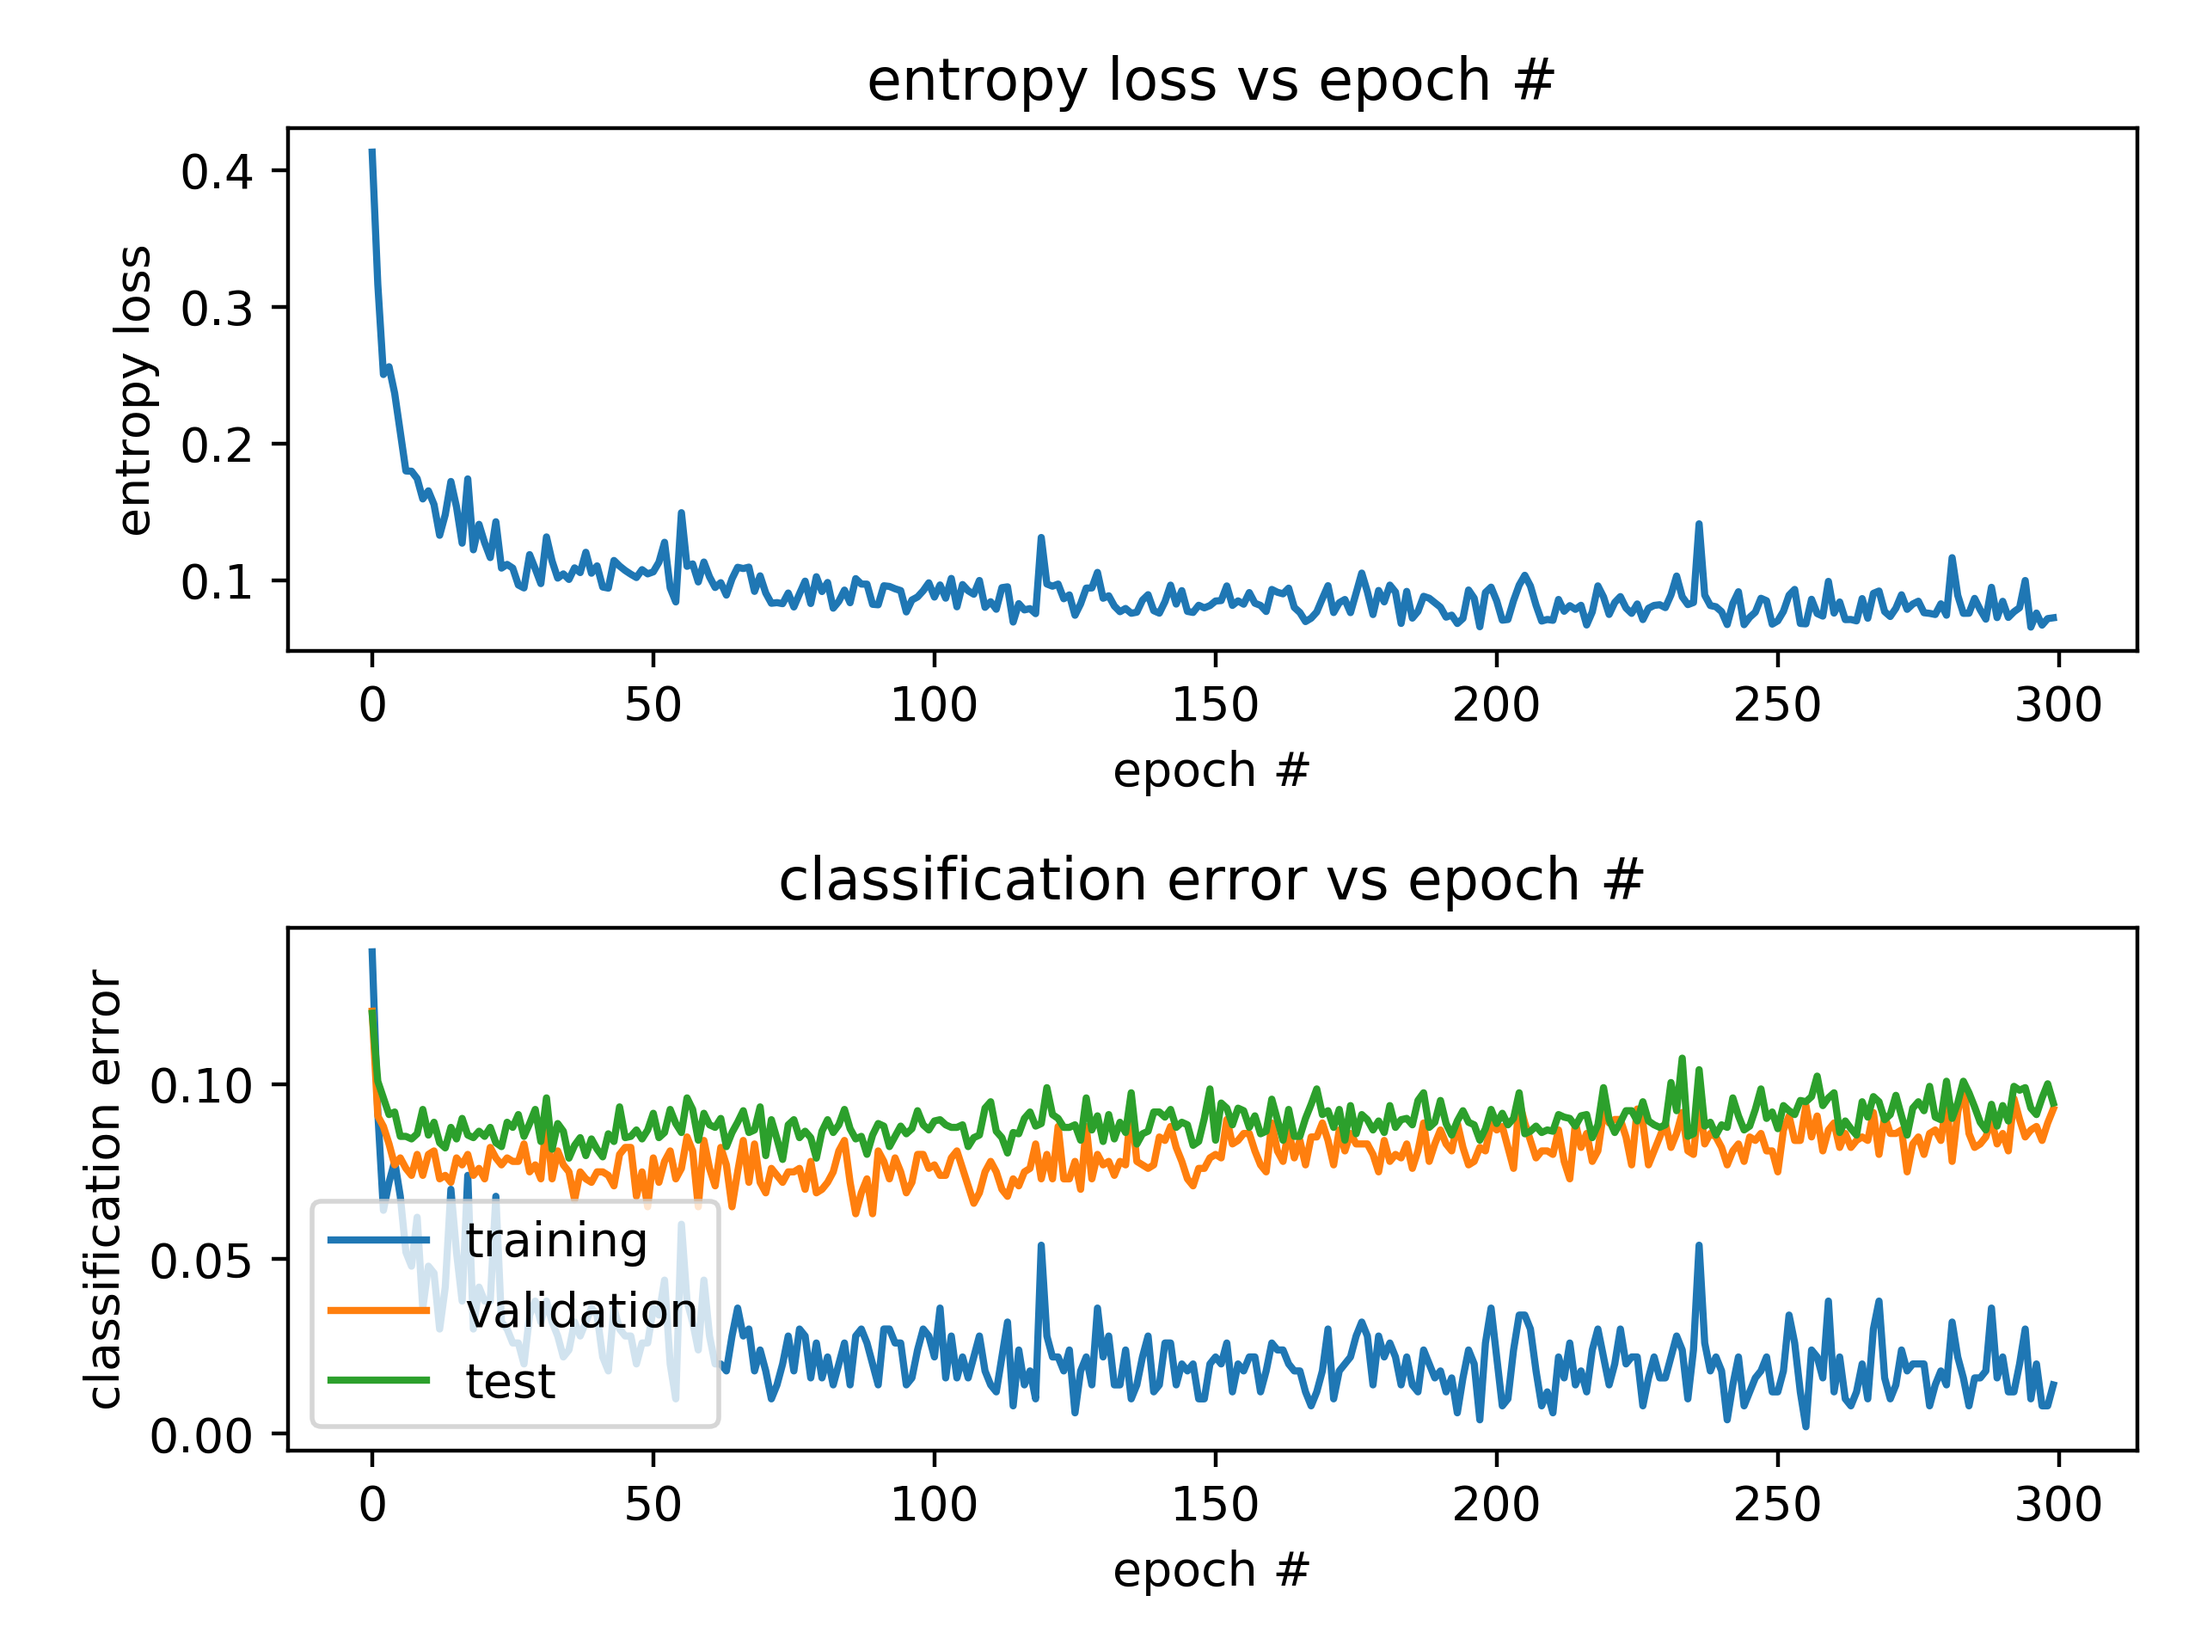
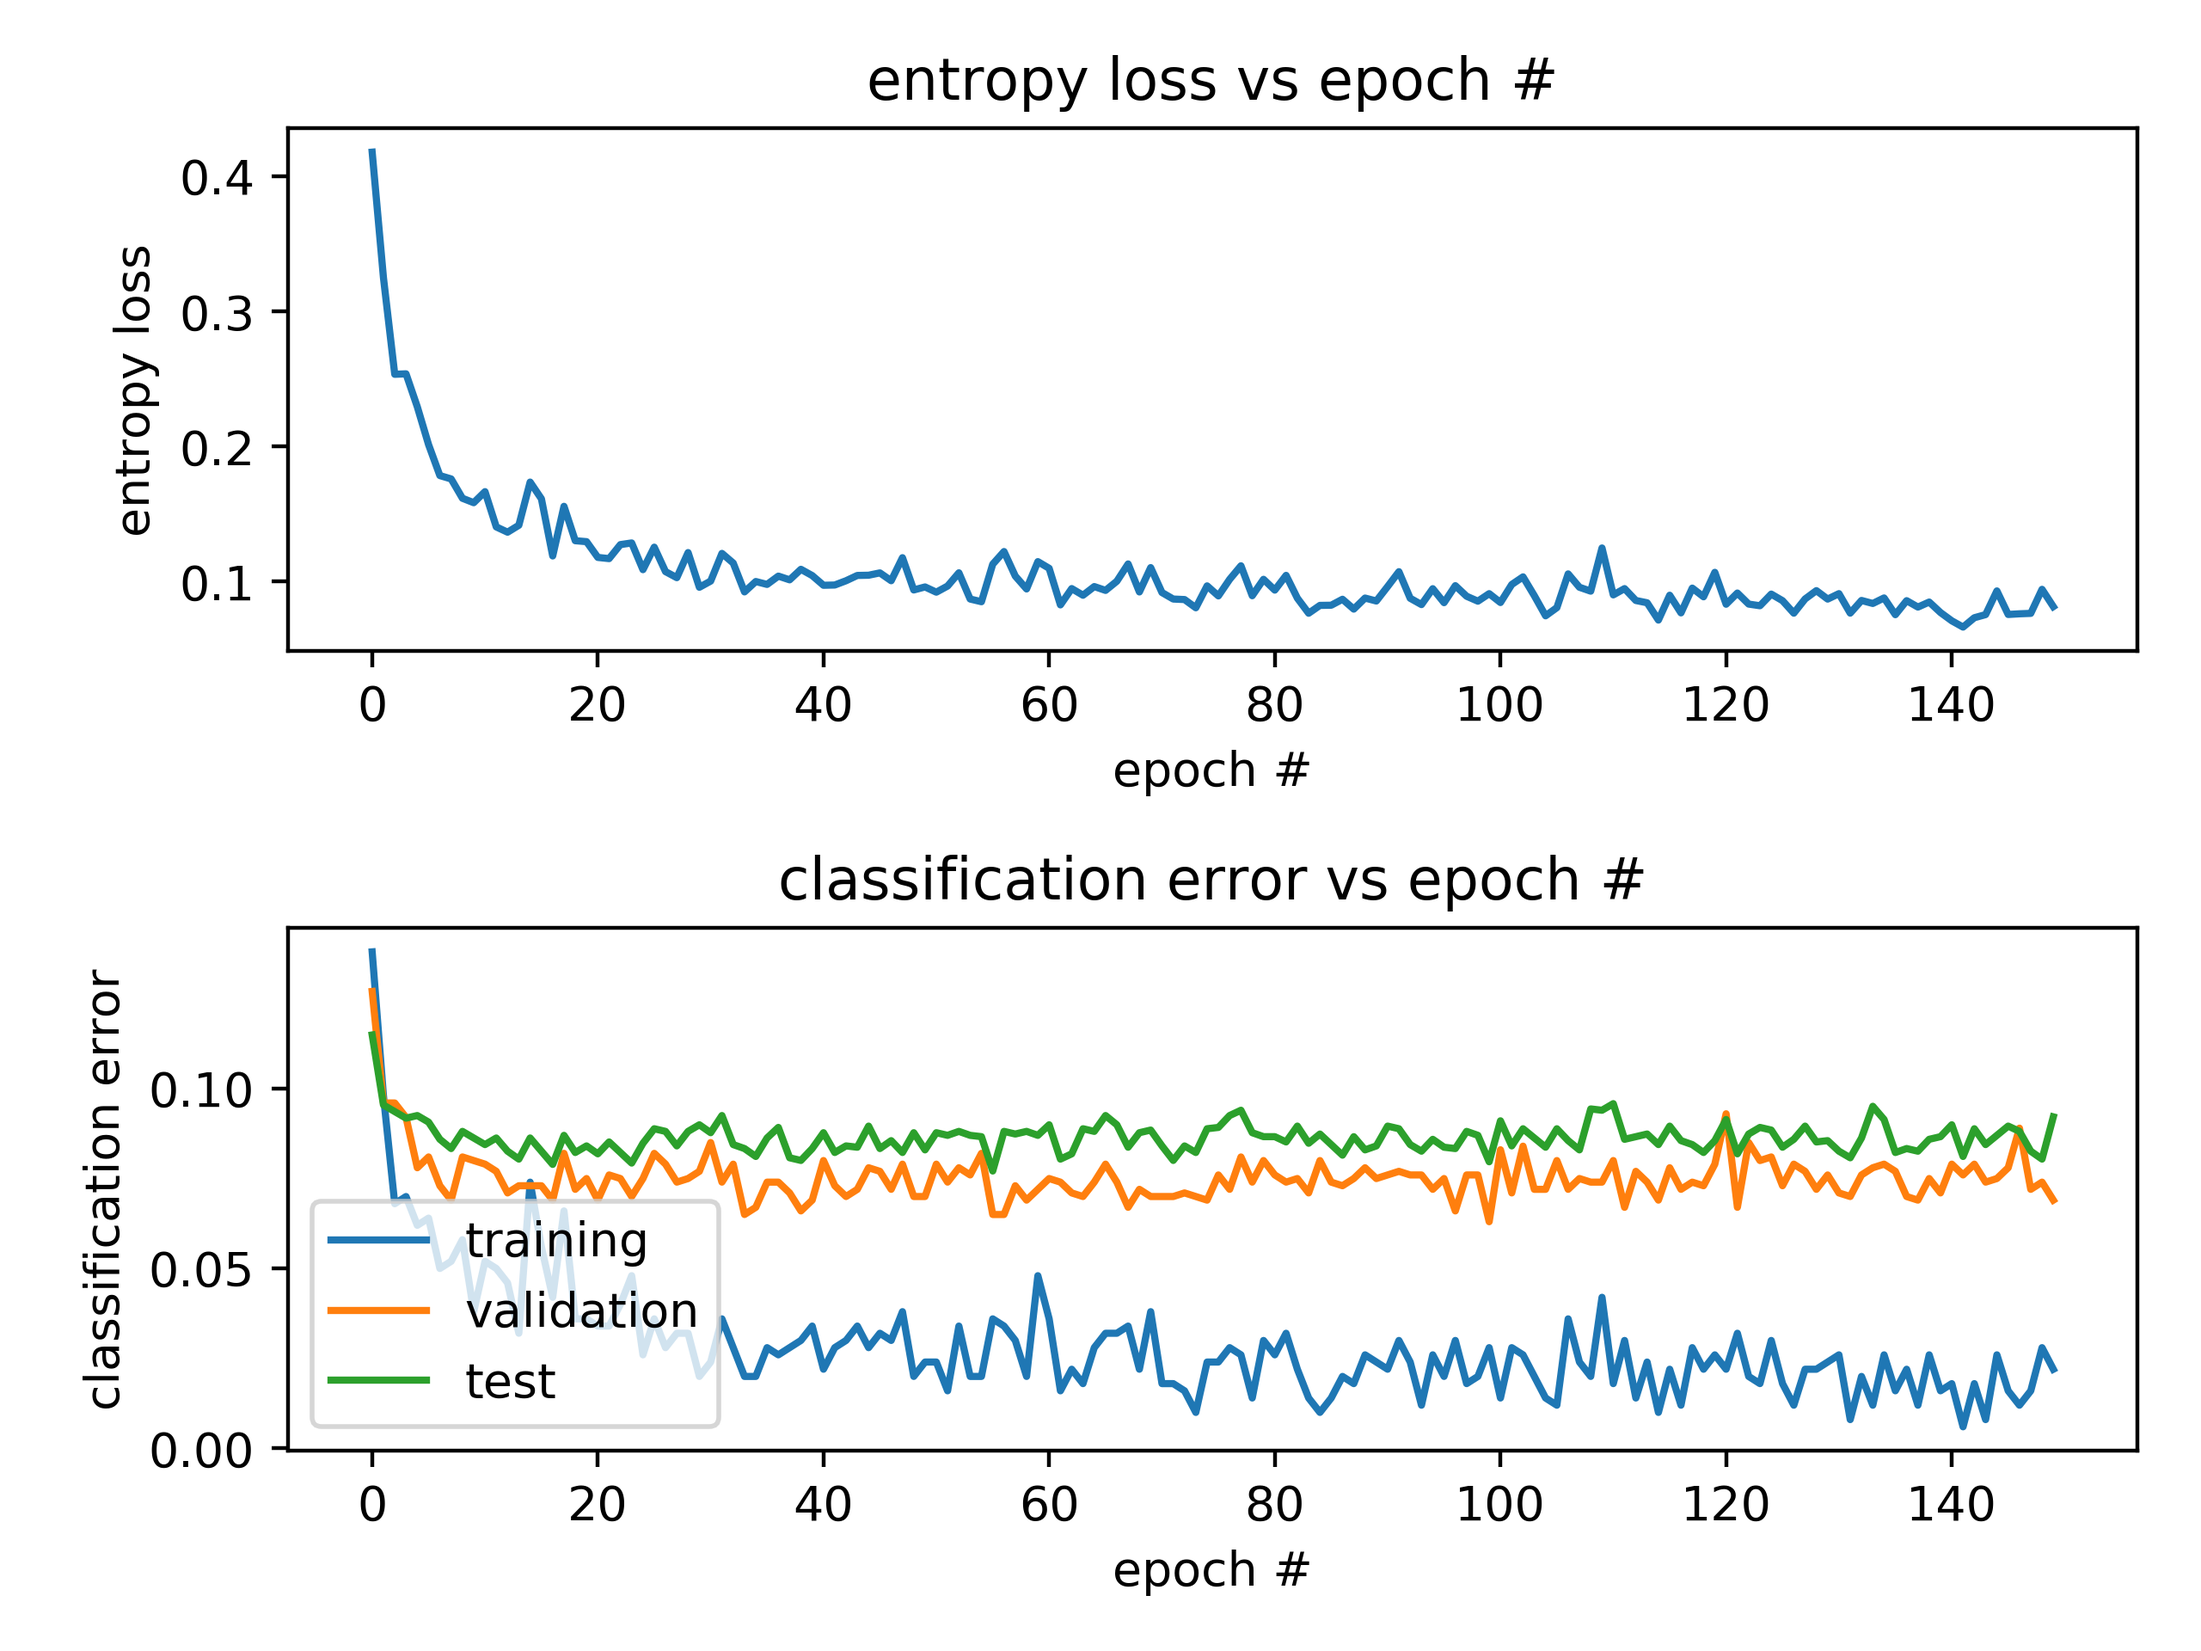
added some part 1.2.1

diff --git a/part_1_2.py b/part_1_2.py
@@ -1,0 +1,83 @@
+import tensorflow as tf
+import numpy as np
+import matplotlib.pyplot as plt
+import part_1_1 as p11
+
+
+def tune_num_of_hidden_units():
+    train_data, train_target, valid_data, valid_target, test_data, test_target = p11.load_data()
+    valid_data = tf.cast(valid_data, tf.float32)
+    valid_target_onehot = tf.one_hot(valid_target, 10)
+
+    batch_size = 500
+    num_iterations = 9000
+    num_train = train_data.shape[0]
+    num_batches = num_train // batch_size
+    num_epochs = num_iterations // num_batches
+    num_iterations_leftover = num_iterations % num_batches
+    print("batch size:", batch_size, "; number of batches", num_batches)
+    print("number of epochs:", num_epochs, "; iteration left-overs:", num_iterations_leftover)
+    print("number of iterations:", num_iterations)
+    hidden_units_num = [100, 500, 1000]
+    # hidden_units_num = [500]
+    for hidden_num in hidden_units_num:
+        print("number of hidden units:", hidden_num)
+        X0, Y, S2, loss, optimizer = p11.build_2_layer_NN(hidden_units_num=hidden_num)
+        init = tf.global_variables_initializer()
+
+        valid_error_list = []
+        train_loss_list = []
+
+        with tf.Session() as sess:
+            sess.run(init)
+            shuffled_inds = np.arange(num_train)
+
+            for epoch in range(num_epochs):
+                np.random.shuffle(shuffled_inds)
+                temp_train_data = train_data[shuffled_inds]
+                temp_train_targets = train_target[shuffled_inds]
+
+                for j in range(num_batches):
+                    batch_X0 = temp_train_data[j * batch_size: (j + 1) * batch_size]
+                    batch_Y = temp_train_targets[j * batch_size: (j + 1) * batch_size]
+                    _, train_loss, Output = sess.run([optimizer, loss, S2], feed_dict={
+                        X0: batch_X0,
+                        Y: batch_Y
+                    })
+
+                with tf.variable_scope("W", reuse=True):
+                    W1 = tf.get_variable("W1")
+                    W2 = tf.get_variable("W2")
+
+                X1 = tf.nn.relu(tf.matmul(valid_data, W1))
+                valid_preds = tf.nn.softmax(tf.matmul(X1, W2))
+                correct_valid_preds = tf.equal(tf.argmax(valid_preds, 1), tf.argmax(valid_target_onehot, 1))
+                valid_error = 1 - tf.reduce_mean(tf.cast(correct_valid_preds, tf.float32))
+
+                train_loss_list.append(train_loss)
+                valid_error_list.append(valid_error.eval())
+
+                if epoch % 10 == 0:
+                    print("training loss:", train_loss)
+                    print("validation error:", valid_error.eval())
+
+            print("final training loss:", train_loss_list[-1])
+            print("final validation classification error:", valid_error_list[-1])
+
+            plt.subplot(2, 1, 1)
+            plt.plot(np.arange(num_epochs), train_loss_list)
+            plt.xlabel("epoch #")
+            plt.ylabel("entropy loss")
+            plt.title("entropy loss vs epoch #")
+            plt.subplot(2, 1, 2)
+            plt.plot(np.arange(num_epochs), valid_error_list)
+            plt.xlabel("epoch #")
+            plt.ylabel("validation classification error")
+            plt.title("validation classification error vs epoch #")
+            plt.tight_layout()
+            plt.savefig("part_1_2_1_" + str(hidden_num), dpi=400)
+            plt.gcf().clear()
+
+
+if __name__ == "__main__":
+    tune_num_of_hidden_units()

diff --git a/part_1_1.py b/part_1_1.py
@@ -21,7 +21,7 @@ def build_layer(X, neuron_num = 1000):
     return Sum
 
 
-def build_graph(reg = 3*10**-4, learning_rate = 0.005):
+def build_2_layer_NN(hidden_units_num = 1000, reg =3 * 10 ** -4, learning_rate = 0.005):
     """
     :param reg: regularization strength
     :param learning_rate: learning rate
@@ -32,7 +32,7 @@ def build_graph(reg = 3*10**-4, learning_rate = 0.005):
     Y_onehot = tf.one_hot(Y, 10)
 
     # layer 1
-    S1 = build_layer(X0)
+    S1 = build_layer(X0, neuron_num=hidden_units_num)
     X1 = tf.nn.relu(S1)
 
     # layer 2
@@ -40,8 +40,8 @@ def build_graph(reg = 3*10**-4, learning_rate = 0.005):
     entropy = tf.nn.softmax_cross_entropy_with_logits(labels=Y_onehot, logits=S2)
 
     with tf.variable_scope("W", reuse=True):
-        W1 = tf.get_variable("W1")
-        W2 = tf.get_variable("W2")
+        W1 = tf.get_variable("W" + str(layer_num - 2))
+        W2 = tf.get_variable("W" + str(layer_num - 1))
     loss = 0.5 * tf.reduce_mean(entropy) + reg * (tf.nn.l2_loss(W1) + tf.nn.l2_loss(W2))
     optimizer = tf.train.AdamOptimizer(learning_rate=learning_rate).minimize(loss)
 
@@ -64,7 +64,7 @@ def tune_learning_rate():
 
     for lr in learning_rates:
         print("learning rate:", lr)
-        X0, Y, S2, loss, optimizer = build_graph(learning_rate=lr)
+        X0, Y, S2, loss, optimizer = build_2_layer_NN(learning_rate=lr)
         init = tf.global_variables_initializer()
         train_loss_list = []
 
@@ -104,7 +104,7 @@ def train_no_early_stopping():
     test_data = tf.cast(test_data, tf.float32)
 
     batch_size = 500
-    num_iterations = 9000
+    num_iterations = 4500
     num_train = train_data.shape[0]
     num_batches = num_train // batch_size
     num_epochs = num_iterations // num_batches
@@ -113,7 +113,7 @@ def train_no_early_stopping():
     print("number of epochs:", num_epochs, "; iteration left-overs:", num_iterations_leftover)
     print("number of iterations:", num_iterations)
 
-    X0, Y, S2, loss, optimizer = build_graph()
+    X0, Y, S2, loss, optimizer = build_2_layer_NN()
     init = tf.global_variables_initializer()
     train_loss_list = []
     train_error_list = []
@@ -166,6 +166,11 @@ def train_no_early_stopping():
             # print("training classficiation error:", train_error.eval())
             # print("valid classficiation error:", valid_error.eval())
             # print("test classficiation error:", test_error.eval())
+
+        print("final training loss:", train_loss_list[-1])
+        print("final training classification error:", train_error_list[-1])
+        print("final validation classification error:", valid_error_list[-1])
+        print("final test classification error:", test_error_list[-1])
         plt.subplot(2, 1, 1)
         plt.plot(np.arange(num_epochs), train_loss_list)
         plt.xlabel("epoch #")
